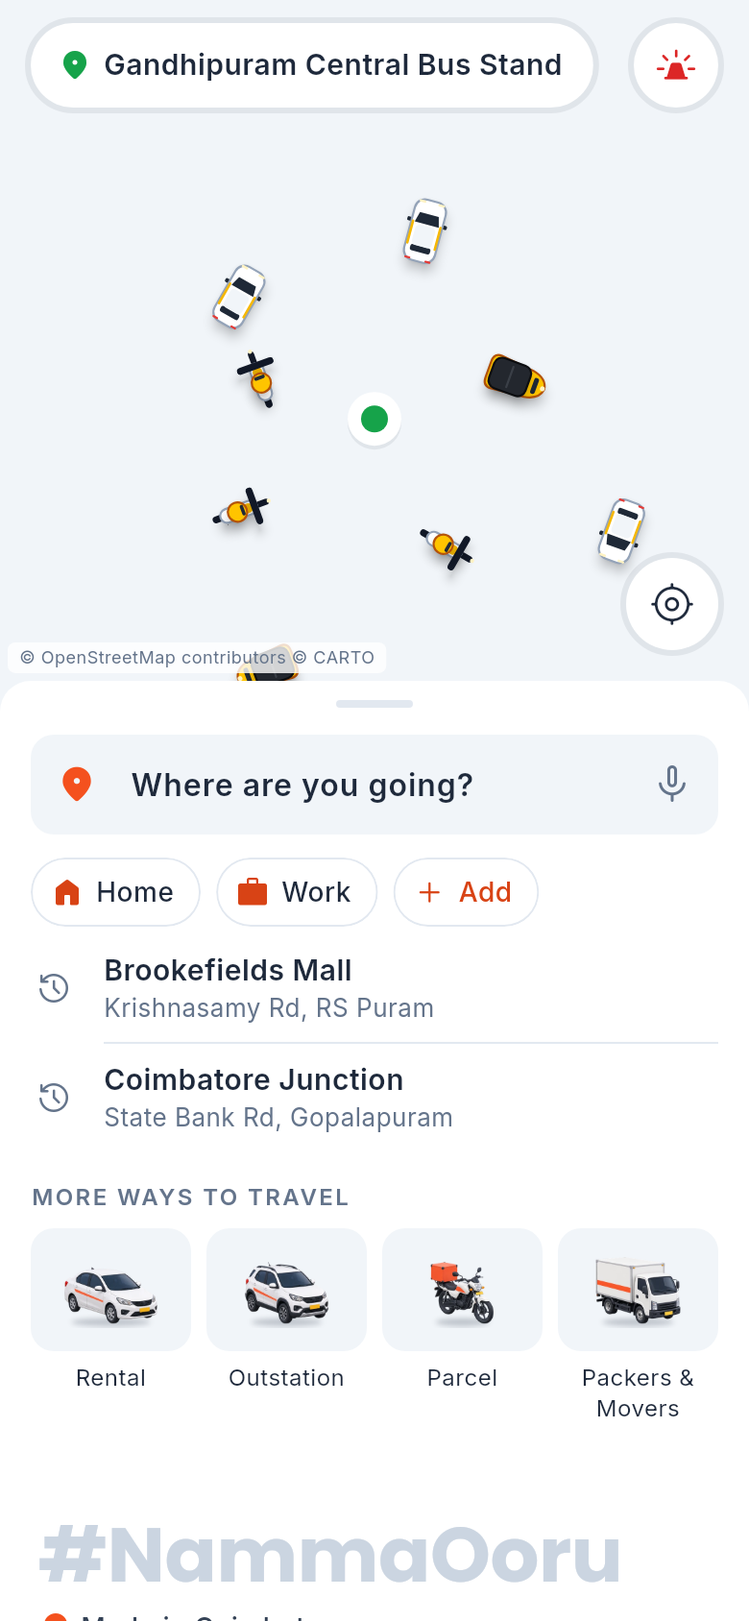
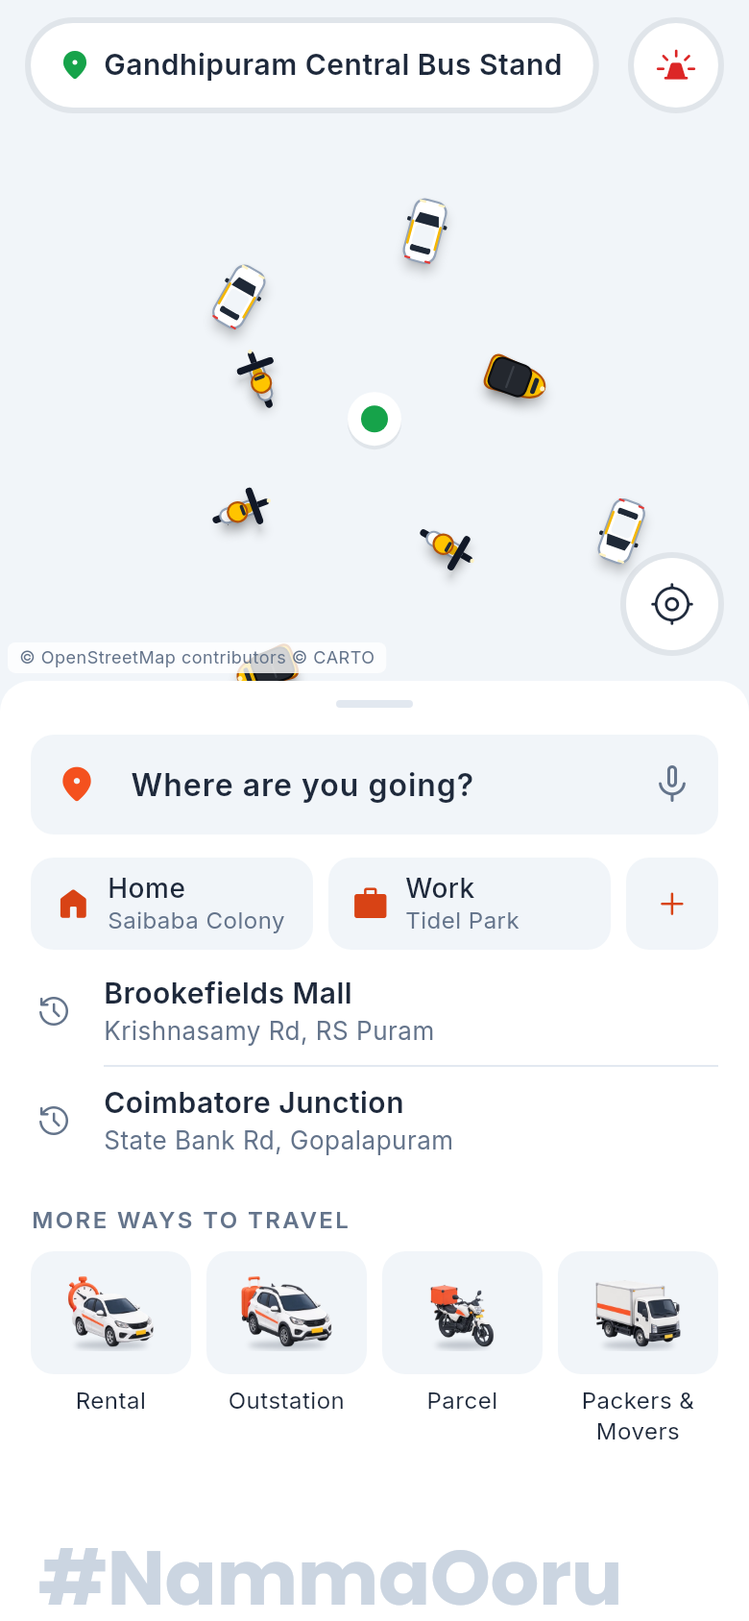
feat(passenger): car with stopwatch / suitcase on Rental and Outstation tiles
Home's "More ways to travel" Rental tile now shows a sedan with a coral
stopwatch and Outstation an SUV with a coral suitcase (Ola-style tiles),
instead of a plain sedan and SUV. The pictures come from a third ChatGPT
sheet (travel modes, one row) run through scripts/vehicle_icons/build.py,
so they share the vehicle miniatures' canvas, mirroring and shadow; the
existing vehicle WebPs are unchanged. Brief added to prompt.md.

diff --git a/apps/passenger/lib/features/ride/p07_home_screen.dart b/apps/passenger/lib/features/ride/p07_home_screen.dart
@@ -865,21 +865,36 @@ class _MoreWaysRow extends ConsumerWidget {
               child: _WayTile(
                 title: 'Rental',
                 hint: from == null ? 'By the hour' : 'By the hour, from ${formatInr(from)}',
-                kind: VehicleKind.sedan,
+                art: const _ModeArt('way_rental'),
                 onTap: onRental,
               ),
             ),
             const SizedBox(width: TtSpacing.s),
             Expanded(
-              child: _WayTile(title: 'Outstation', hint: 'One way or round trip', kind: VehicleKind.suv, onTap: onOutstation),
+              child: _WayTile(
+                title: 'Outstation',
+                hint: 'One way or round trip',
+                art: const _ModeArt('way_outstation'),
+                onTap: onOutstation,
+              ),
             ),
             const SizedBox(width: TtSpacing.s),
             Expanded(
-              child: _WayTile(title: 'Parcel', hint: 'Send goods across town', kind: VehicleKind.goodsBike, onTap: onParcel),
+              child: _WayTile(
+                title: 'Parcel',
+                hint: 'Send goods across town',
+                art: const VehicleArt(VehicleKind.goodsBike),
+                onTap: onParcel,
+              ),
             ),
             const SizedBox(width: TtSpacing.s),
             Expanded(
-              child: _WayTile(title: 'Packers & Movers', hint: 'House shifting', kind: VehicleKind.truck, onTap: onMovers),
+              child: _WayTile(
+                title: 'Packers & Movers',
+                hint: 'House shifting',
+                art: const VehicleArt(VehicleKind.truck),
+                onTap: onMovers,
+              ),
             ),
           ],
         ),
@@ -888,14 +903,32 @@ class _MoreWaysRow extends ConsumerWidget {
   }
 }
 
-/// A grey tile with the vehicle's miniature and the name under it.
+/// The Rental / Outstation tile picture: a car with a stopwatch or a suitcase, made like the vehicle miniatures
+/// (scripts/vehicle_icons/build.py) and sized like [VehicleArt].
+class _ModeArt extends StatelessWidget {
+  const _ModeArt(this.name);
+  final String name;
+
+  @override
+  Widget build(BuildContext context) => Image.asset(
+        'packages/tamiltaxi_ui/assets/vehicles/$name.webp',
+        width: 56,
+        height: 40,
+        fit: BoxFit.contain,
+        filterQuality: FilterQuality.medium,
+        // Tests and the first frame: keep the space, no broken-image box.
+        errorBuilder: (context, error, stack) => const SizedBox(width: 56, height: 40),
+      );
+}
+
+/// A grey tile with a picture ([art]) and the name under it.
 class _WayTile extends StatelessWidget {
-  const _WayTile({required this.title, required this.hint, required this.kind, required this.onTap});
+  const _WayTile({required this.title, required this.hint, required this.art, required this.onTap});
   final String title;
 
   /// What it is, for screen readers ("By the hour, from ₹249").
   final String hint;
-  final VehicleKind kind;
+  final Widget art;
   final VoidCallback onTap;
 
   @override
@@ -914,7 +947,7 @@ class _WayTile extends StatelessWidget {
               height: 64,
               alignment: Alignment.center,
               decoration: const BoxDecoration(color: TtColors.inputBg, borderRadius: TtRadii.cardRadius),
-              child: VehicleArt(kind),
+              child: art,
             ),
             const SizedBox(height: 6),
             Text(

diff --git a/scripts/vehicle_icons/build.py b/scripts/vehicle_icons/build.py
@@ -1,4 +1,4 @@
-"""Builds the apps' vehicle miniatures from two ChatGPT sprite sheets in docs/design/vechile/.
+"""Builds the apps' vehicle miniatures from three ChatGPT sprite sheets in docs/design/vechile/.
 
     python3 scripts/vehicle_icons/build.py            # writes packages/tamiltaxi_ui/assets/vehicles/<kind>.webp
     python3 scripts/vehicle_icons/build.py --preview  # also build/vehicle_icons/preview.png (light + dark rows)
@@ -6,7 +6,8 @@
 Pink Taxi (rides for women riders with women drivers) uses `<kind>_pink.webp`: the same vehicles with the coral
 accent turned pink (only coral-orange hues move, so the yellow plates and white bodies stay).
 
-The sheets are transparent 1536 x 1024 PNGs, two rows of vehicles, made with the ChatGPT image model from the brief
+The sheets are transparent 1536 x 1024 PNGs, two rows of vehicles (the travel-modes sheet: one row, a car with a
+suitcase for Outstation and with a stopwatch for Rental, on the home tiles), made with the ChatGPT image model from the brief
 in prompt.md (soft 3D, front three-quarter view, white with one coral accent, no logos or text). The folder is kept
 local (git-ignored) like the earlier renders. ChatGPT draws the fronts pointing left; every app in the market shows
 them pointing right, so each vehicle is mirrored (the set has no text, so that is safe).
@@ -28,8 +29,11 @@ OUT = os.path.join(ROOT, 'packages', 'tamiltaxi_ui', 'assets', 'vehicles')
 SHEETS = {
     'Tamil Taxi passenger vehicles (ChatGPT).png': ['bike', 'scooty', 'auto', 'mini', 'sedan', 'suv'],
     'Tamil Taxi goods vehicles (ChatGPT).png': ['goods_bike', 'three_wheeler', 'mini_truck', 'pickup', 'truck'],
+    'Tamil Taxi travel modes (ChatGPT).png': ['way_outstation', 'way_rental'],
 }
 ROWS = 2
+# Sheets drawn as a single row.
+ONE_ROW = {'Tamil Taxi travel modes (ChatGPT).png'}
 
 # Pink Taxi copies of the vehicles a rider can book.
 PINK = ['bike', 'scooty', 'auto', 'auto_priority', 'mini', 'sedan', 'suv']
@@ -40,16 +44,16 @@ CW, CH, BASE = 336, 240, 220  # canvas and the line the wheels stand on, px
 FIT = {
     'bike': (264, 188), 'scooty': (240, 188), 'auto': (244, 204), 'mini': (300, 180), 'sedan': (324, 176),
     'suv': (320, 192), 'goods_bike': (268, 192), 'three_wheeler': (284, 204), 'mini_truck': (312, 196),
-    'pickup': (324, 188), 'truck': (324, 208),
+    'pickup': (324, 188), 'truck': (324, 208), 'way_outstation': (324, 220), 'way_rental': (324, 220),
 }
 
 
-def vehicles_in(sheet):
+def vehicles_in(sheet, rows=ROWS):
     """The vehicles of a sheet as trimmed RGBA images, row by row, split at empty columns."""
     alpha = sheet.getchannel('A').point(lambda a: 255 if a > 24 else 0)
-    band_h = sheet.height // ROWS
+    band_h = sheet.height // rows
     found = []
-    for r in range(ROWS):
+    for r in range(rows):
         band = alpha.crop((0, r * band_h, sheet.width, (r + 1) * band_h))
         filled = [band.crop((x, 0, x + 1, band_h)).getbbox() is not None for x in range(sheet.width)]
         x = 0
@@ -121,7 +125,7 @@ def main():
     built = {}
     for file, names in SHEETS.items():
         sheet = Image.open(os.path.join(SRC, file)).convert('RGBA')
-        found = vehicles_in(sheet)
+        found = vehicles_in(sheet, 1 if file in ONE_ROW else ROWS)
         if len(found) != len(names):
             sys.exit(f'{file}: found {len(found)} vehicles, expected {len(names)}')
         for name, v in zip(names, found):

diff --git a/docs/tech-docs/using.tech.md b/docs/tech-docs/using.tech.md
@@ -3,7 +3,7 @@
 Single technical reference for the Tamil Taxi monorepo. Keep it current: update this file whenever the stack, services,
 environment variables, commands or infrastructure change.
 
-Last updated: 10 Oct 2026 (each ride request goes to `offerFanOut` drivers at once, 3 by default, like Rapido: the first to accept gets it and the others' cards close; 1 = one driver at a time as before, see "Dispatch" step 5; staging API and admin deployed at `21ed3a6`, see 9b; earlier, 9 Oct: the parcel sender sees the delivery OTP on PP-09 too, not only PP-08, and its button sends the OTP with the tracking to the receiver; D-22a offers "Call the sender" when the receiver doesn't have the code, see "Delivery OTP" in 7b; earlier, 8 Oct: one welcome screen in each app, like Ola's: a picture on a soft coral panel, a headline and "Continue with phone number"; no carousel; driver D-02 has no separate Log in, the OTP step tells new and registered drivers apart; ChatGPT 3D pictures of a Tamil auto driver and a rider with our vehicles (`TtWelcomeView`), see "Welcome screen" under the rider intro; earlier, 6 Oct: live cars glide on rider maps: the driver's car along the road between GPS fixes (`VehicleGlide`, see 7a), nearby cars between refreshes (hourly marker `id` from `GET /drivers/nearby`), and the rider's trip reads carry `driverLocation` so the car shows at once after a restart, see 6; one ride OTP per rider, Rapido style, changed by admins when overheard: `User.rideOtp`, `POST /admin/users/:id/ride-otp`, see "One ride OTP per rider" in 6; system-design notes started: [system-design-notes.md](system-design-notes.md) compares our real-time design with Uber's and keeps the optimization backlog; Contribute page removed: no Account › Contribute in either app, no Settings › Contribute in the admin, `GET /app-config` has no `contribute` block, see 6a; locate-me on Home and P-09 moves at once to where the phone was last seen, follows the fresh GPS fix with a spinner (`MapCircleButton.busy`) and says when the location can't be found; P-09's used to go back to where the pin started; new vehicle miniatures for every vehicle: soft 3D, white with a coral accent, pointing right, built by `scripts/vehicle_icons/build.py` from ChatGPT sheets, see "Vehicle pictures"; slimmer ride lists: 64 dp rows, only the chosen one outlined, "For me" chip in the P-10 header, fare details from its ⓘ, see "Ride and goods lists"; lighter Home: one-line pickup pill, quiet SOS button, pills for saved places, 56 dp place rows, four More ways tiles, see 6g; Pink Taxi strip on P-10 for women riders (pink vehicles when on), 60 dp ride rows, see "Ride and goods lists"; Book Any on P-10 (Auto, Mini, Sedan or SUV, the fare of the one that comes), see "Book Any on P-10"; lighter Parcel home PP-01 (grey route card, 3-column vehicle tiles, one Packers & Movers row), see 6h; Home sheet snaps to down / middle / up like Rapido's, see "Home sheet stops"; staging API deployed at `c893959`, see 9b; "Received on UPI" is stored on the trip, `POST /trips/:id/payment`, see the driver trip
+Last updated: 13 Oct 2026 (rider Home: the Rental and Outstation tiles show a car with a coral stopwatch / suitcase, like Ola's tiles, built with the vehicle miniatures, see "Vehicle pictures"; earlier, 10 Oct: each ride request goes to `offerFanOut` drivers at once, 3 by default, like Rapido: the first to accept gets it and the others' cards close; 1 = one driver at a time as before, see "Dispatch" step 5; staging API and admin deployed at `21ed3a6`, see 9b; earlier, 9 Oct: the parcel sender sees the delivery OTP on PP-09 too, not only PP-08, and its button sends the OTP with the tracking to the receiver; D-22a offers "Call the sender" when the receiver doesn't have the code, see "Delivery OTP" in 7b; earlier, 8 Oct: one welcome screen in each app, like Ola's: a picture on a soft coral panel, a headline and "Continue with phone number"; no carousel; driver D-02 has no separate Log in, the OTP step tells new and registered drivers apart; ChatGPT 3D pictures of a Tamil auto driver and a rider with our vehicles (`TtWelcomeView`), see "Welcome screen" under the rider intro; earlier, 6 Oct: live cars glide on rider maps: the driver's car along the road between GPS fixes (`VehicleGlide`, see 7a), nearby cars between refreshes (hourly marker `id` from `GET /drivers/nearby`), and the rider's trip reads carry `driverLocation` so the car shows at once after a restart, see 6; one ride OTP per rider, Rapido style, changed by admins when overheard: `User.rideOtp`, `POST /admin/users/:id/ride-otp`, see "One ride OTP per rider" in 6; system-design notes started: [system-design-notes.md](system-design-notes.md) compares our real-time design with Uber's and keeps the optimization backlog; Contribute page removed: no Account › Contribute in either app, no Settings › Contribute in the admin, `GET /app-config` has no `contribute` block, see 6a; locate-me on Home and P-09 moves at once to where the phone was last seen, follows the fresh GPS fix with a spinner (`MapCircleButton.busy`) and says when the location can't be found; P-09's used to go back to where the pin started; new vehicle miniatures for every vehicle: soft 3D, white with a coral accent, pointing right, built by `scripts/vehicle_icons/build.py` from ChatGPT sheets, see "Vehicle pictures"; slimmer ride lists: 64 dp rows, only the chosen one outlined, "For me" chip in the P-10 header, fare details from its ⓘ, see "Ride and goods lists"; lighter Home: one-line pickup pill, quiet SOS button, pills for saved places, 56 dp place rows, four More ways tiles, see 6g; Pink Taxi strip on P-10 for women riders (pink vehicles when on), 60 dp ride rows, see "Ride and goods lists"; Book Any on P-10 (Auto, Mini, Sedan or SUV, the fare of the one that comes), see "Book Any on P-10"; lighter Parcel home PP-01 (grey route card, 3-column vehicle tiles, one Packers & Movers row), see 6h; Home sheet snaps to down / middle / up like Rapido's, see "Home sheet stops"; staging API deployed at `c893959`, see 9b; "Received on UPI" is stored on the trip, `POST /trips/:id/payment`, see the driver trip
 endpoints in 6; flow audit fixes in the API: a deleted account's old tokens stay rejected without Redis, see
 the `DELETE /me` note in the 3 Oct audit section; drivers can book in the passenger app and are never offered their
 own trip; a scheduled trip waits while the rider has one under way, see 6g. Earlier, 3 Oct: driver app: no Refer a driver and no Delete account: drivers raise a "Delete my account" ticket and their records are kept 6 months for police enquiries, see the `DELETE /me` note in 2; the Design gallery row shows only with `--dart-define=TT_DESIGN_GALLERY=true`; number plates: white for bikes and scooters, yellow T-board for every other vehicle (`NumberPlate.vehicle`); avatar photos are round inside their ring (were square, covering it); Help & support: topic tiles in even rows (an odd last one takes the row), tickets shown by a short reference (`formatRef`, "#TOQDMWR9"); rider PP-03: the form is a movable sheet over the map, "Set on map" in the first drop search, "I'm receiving it myself" shows a Receiver card, see 6h; Parcel on Auto (`AUTO_PARCEL`, up to 100 kg inside the auto), driver Services with pauses and a Rate card, goods shown in kg only, see 6f and 7c8; rider parcels in 5–6 taps like Rapido: start from the drop, Switch, details optional, see 6h; Home lists the last 3 places under the search; the "0% commission / no subscription" message now appears only where it matters, see 6a; D-05 vehicle cards show passengers or load; completed the interrupted 2 Oct Claude audit; see the completion handoff below; passenger home footer: a new picture (`assets/illustrations/home_footer.png`, 256-colour PNG, 195 KB) replaces the generated SVG; `scripts/footer_art/` and flutter_svg removed; rider Home: the top pill shows the greeting over the pickup area ("Good morning, Priya" / "Mahaganapathi Nagar, Vellalore"; tap to move the pickup on P-09, green pickup pin there), no initials avatar, during a trip the greeting alone; maps: Android took the initial camera before `mapPadding`, so a route fitted above a sheet sat behind it (PP-06, P-10, the trip screens): the Google map places its camera again once it is created, fits keep the whole drop pin in view, P-22 fits its route, see 7a; rider parcels: PP-02 / PP-03 open on a map with a fixed pin (move the map to fine-tune the point), the drop is searched first, compact location rows, see 6h; "House shifting" is called **Packers & Movers** in every app (code keeps `shifting`); Activity: one card per trip under day headers (Today, Yesterday, 30 Sep); live mode uses the real date (`TtClock.useRealDate`); pickup and truck pictures, cut out of their painted checkerboard by `scripts/vehicle_icons/checker_cutout.py`; house shifting goes only to movers who switched it on with enough helpers, see 6h; prices per city: admin › City › Rentals & more sets rentals, outstation, goods to another town and house shifting prices, `CityModePricing`, `GET /fares/rates`, see 6i; driver app: house shifting request cards, D-21c move details and items, D-22c price lines; rider app: house shifting PH-01 … PH-05 with typed items, goods to another town on PP-01 / PP-06, "I'm receiving it myself" and Save as on PP-03, load beds on PP-06, see 6h; API: goods to another town (one way, by the km) and house shifting (`POST /fares/shifting-quote`, `Trip.shifting`, scheduled parcels), admin House shifting card, see 6h; driver app: rental / outstation request cards with the pickup time of trips booked ahead, voice line, rental clock on D-18c, fare lines on D-19c, see 6g; rider app: Rental (P-34) and Outstation (P-35 / P-35b) from Home, booking for later with P-36 "You're booked" and Upcoming on Home and Activity, mode fares mirrored in `ride_modes.dart` against the shared `ride_mode_cases.json`, see 6g; screen transitions: one slide-and-fade for every page in both apps, see 7e; API: cab rentals (hourly packages), outstation one way / round trip and trips booked for later (`SCHEDULED`), see 6g; nearby vehicles on rider maps (`GET /drivers/nearby`, no ids, ~55 m grid) and coloured top-down markers; ride tiers Scooty, Auto Priority, Sedan, SUV beside Bike, Auto and Mini (`CAB`), see 6f; driver sign-up: OTP → one D-07 Registration page (vehicle card + checklist, review and rejections on the same page) until approval, D-10 / S-09 removed, sign-up step bar aligned left; no built-in city: place search, area names, map starts and app messages come from the `City` rows (`serviceCitiesProvider`, `CityDefaults`, admin `cityView`); maps re-fit to `fitPoints` whenever they or the visible area change; rider splash intro: P-01 plays a 2 s animation from the native splash frame: the icon's kolam ring draws itself, the x's lane dashes glide, the tagline rises (`KolamRing`, `TtAppName.laneShift`, `SimTimings.intro`); passenger home: the Ride sheet ends in line art of Tamil Nadu under "#NammaOoru · Made in Coimbatore" (`HomeFooter`, SVG via flutter_svg, drawn by `scripts/footer_art/build.py`), `MapBottomSheet.footer` slot; maps: hexes only, no circles anywhere: mock demand map and S-08 service area as H3-sized hexes (`hex_grid.dart`), S-01 search area as hex cells, hex "location lost" marker (the search radar pulse stays round), `MapZone` circles removed from `TtMap`; app screen audit fixes: chips / labels cut off on P-08, P-10, P-25, D-03a, D-14, D-14b, attributions under the status bar, PP-07 pickup under the sheet, rider privacy text and chat header no longer claim masked numbers, old "r" mark on the driver UPI QR and `RD-` trip codes, D-26 document count; `docs/design` is now screenshots of the apps, refreshed with `scripts/export_design.py`; admin dashboard: Needs attention strip + Today / People & places sections; admin global search: Ctrl+K palette over `GET /admin/search`; admin driver + account pages: More menu (edit, push, take offline, block), Driver profile / Account tabs, Notes + History cards, Remind on Approvals; admin people API: notes, activity history, direct push, driver detail edits, take offline; admin list views: status tabs with counts, sort, more filters, 20 / 50 / 100 rows, phone search ignoring spaces and +91, lean list queries + indexes; sidebar regrouped into collections (Overview, Drivers, Riders, Trips, Money, Platform, System; collapsible), Settings section chips + find; driver approval switch `driverAutoApprove` + Drivers › Approvals queue with bulk approve, hold / reject reasons pushed to the driver; 30 Sep: public website `apps/web`: static Next.js export with home, privacy policy, terms and account deletion pages for Google Play; pink Butterfly band on driver request cards for women-preferred and women-only trips; back fixed on the driver OTP screens; driver request cards swipe right to accept / left to decline, rail icons for best ₹/km, closest pickup, parcel, Butterfly, Verified; Go To / Stay In bar on the driver request screen; driver Home: Go To / Stay In row and sheet with saved areas, Parcels too switch, mixed ride/parcel request stacks; rider adds extra (+₹10/20/30) to a search nobody took, shown to drivers as "₹50 + ₹20"; parcel on bike: bike drivers also get goods-bike parcels unless they switch it off; Stay In and saved areas in driver booking preferences; kolam app icons + matching native/Flutter splash, overlay notification icon fix; 29 Sep: renamed Rido → Tamil Taxi: packages, app IDs `com.tamiltaxi.*`, `Tt*` widgets, `TT_*` defines, database `tamiltaxi`; new logo in `TtWordmark`; open-source repo: AGPL-3.0, contributor docs, CI, COST_AND_SCALING.md; DEV_OTP_CODE for dev-mode sign-in; bike taxi and auto test drivers; stacked requests shown as a comparison list with a ring rail; stacked driver requests: up to 3 open at once, chips to switch, accepting one releases the rest; driver booking preferences: go home, farthest pickup, trip length, filtered in dispatch; driver requests: swipe to accept and read aloud in English / Tamil; D-07 per-document cards + Help button; nearest high-demand area on driver Home with area names and directions; test drivers seeder for cab, goods bike, truck, mini truck and pickup; driver ETAs for P-10 and dispatch in one Route Matrix call; place search restricted to the service area with each suggestion's distance from the pickup; "Near KG Hospital" pickup landmarks from Google address descriptors, stored as `Trip.pickupLandmark` for the driver; traffic-aware travel time on P-10 / PP-06 (`travelMin`, fare unchanged); fare routes use the shortest of Google's alternatives; routes snap pickup / drop to a road a vehicle can stop on (vehicleStopover), fare screen reloads when a stop changes; "Did you reach safely?" after night rides; route deviation + night checks on the quoted route; stop detection during rides with an "Is everything OK?" check; server SOS + admin SOS page; live trip share links + public /track page; dispatch ranks drivers by 7-day offer record and idle time; driver cancellation-rate nudge and temporary pause; cancellation fee, off by default; cancellation fault verdict from signals; waiting charge after the free minutes at the pickup; fare sanity flags at completion + admin "Mark reviewed" and GPS path map; trip GPS breadcrumbs and actual distance; driver state cached in Redis for the GPS path; rich driver GPS fixes + offline buffer with batch upload; trip timeout jobs: not moving, no-show wait, stuck trips; driver cancel finds another driver; OTP out of driver step responses; structured cancellations with codes; durable Redis job runner for dispatch timers; trip race / OTP / rating / GPS-trust fixes; no default peak markup, surge before the minimum fare, notifier never crashes the API)
@@ -1107,12 +1107,14 @@ tier per city (City › Fares).
   (`ParcelVehicleArt`), D-02, D-04, D-05, D-07, D-11 and the design board. Since 5 Oct 2026 every vehicle is a soft
   3D miniature in one style (white body, one coral accent, charcoal instead of black, no logos or text, front
   three-quarter view pointing right like the other ride apps), made with the ChatGPT image model from the brief in
-  `scripts/vehicle_icons/prompt.md` as two transparent sprite sheets kept local in `docs/design/vechile/`.
+  `scripts/vehicle_icons/prompt.md` as transparent sprite sheets kept local in `docs/design/vechile/`.
   `scripts/vehicle_icons/build.py` finds each vehicle by the empty columns around it, mirrors it, scales it into a box
   per class (two-wheelers smaller than cars) on one 336 × 240 px canvas with one wheel baseline and the same soft
   shadow, and writes WebPs (~15–20 KB each; sharp up to the 96 dp driver cards). Auto Priority is the auto with a
   navy bolt badge; goods bike has its own picture (delivery box). Pink Taxi copies (`<kind>_pink.webp`, the coral
   accent turned pink, autos with pink canopies) exist for the seven ride tiers: `VehicleArt(kind, pink: true)`.
+  Since 13 Oct 2026 a third sheet (travel modes) gives the Home Rental and Outstation tiles their pictures:
+  `way_rental.webp` (sedan with a stopwatch) and `way_outstation.webp` (SUV with a suitcase), same canvas and shadow.
 - **Ride and goods lists (P-10, PP-06, P-34 / P-35):** `VehicleOptionCard` is a 60 dp row like Rapido's and Uber's:
   56 × 40 dp miniature, name 15 sp (`listTitle`), "3 min away · Drop 9:24 PM" 13 sp grey (`listMeta`), fare 16 sp
   tabular (`price`); no box of its own, only the selected row has a white fill and a 1.5 dp outline (`accent`: coral,
@@ -1179,8 +1181,8 @@ tier per city (City › Fares).
 **In the rider app** (`packages/tamiltaxi_data/lib/src/ride_modes.dart` mirrors `ride-modes.ts`; both test the shared
 `packages/tamiltaxi_data/test/fixtures/ride_mode_cases.json`, so the apps' mock quotes match the API's):
 
-- Home (P-07) has a "More ways to travel" row of four tiles with the vehicle miniatures: **Rental** (P-34),
-  **Outstation** (P-35), **Parcel** (PP-01) and **Packers & Movers** (PH-01). Upcoming bookings show on
+- Home (P-07) has a "More ways to travel" row of four tiles with the vehicle miniatures: **Rental** (P-34, a sedan
+  with a stopwatch), **Outstation** (P-35, an SUV with a suitcase), **Parcel** (PP-01) and **Packers & Movers** (PH-01). Upcoming bookings show on
   Home and at the top of Activity (P-21, "UPCOMING", cancel for free); scheduled trips never count as the active ride.
 - Home layout since 5 Oct 2026 (lighter, like Rapido / Uber): a one-line pickup pill (44 dp, as wide as its text;
   the greeting only during a trip) and a quiet white SOS map button (`SosButton(quiet: true)`; the red SOS stays on

diff --git a/scripts/vehicle_icons/prompt.md b/scripts/vehicle_icons/prompt.md
@@ -1,7 +1,7 @@
 # Vehicle miniatures: ChatGPT brief
 
-The vehicle pictures in `packages/tamiltaxi_ui/assets/vehicles/` come from two sprite sheets made with the ChatGPT
-image model (5 Oct 2026). To add a vehicle, generate a sheet with the same brief, save it in `docs/design/vechile/`,
+The vehicle pictures in `packages/tamiltaxi_ui/assets/vehicles/` come from three sprite sheets made with the ChatGPT
+image model (5 Oct 2026; travel modes 13 Oct 2026). To add a vehicle, generate a sheet with the same brief, save it in `docs/design/vechile/`,
 add it to `SHEETS` in `build.py` and run the script. ChatGPT draws the fronts pointing left; `build.py` mirrors them
 so they point right like every other ride app.
 
@@ -31,6 +31,11 @@ so they point right like every other ride app.
    three-wheeler with an open flat cargo bed; small Indian mini truck (1-tonne light commercial vehicle) with an open
    cargo bed / pickup truck with an open bed; medium closed box truck with a white box body and a coral stripe;
    last cell empty.
+3. Travel modes (home "More ways to travel" tiles), 2 columns x 1 row, the passenger SUV and sedan attached as style
+   references: Outstation = the compact SUV with a coral hard-shell suitcase (white handle, charcoal wheels) standing
+   behind its rear; Rental = the compact sedan with a large round coral stopwatch (white face, tick marks only, one
+   charcoal hand) behind its rear. Props about 70% of the car's height and poking above the roof, the car is the
+   hero, each illustration filling about 75% of its half, a clear empty gap between the two.
 
 With the Codex CLI that ships in the ChatGPT desktop app: `codex exec --skip-git-repo-check -s read-only "<brief>"
 < /dev/null`; the images land in `~/.codex/generated_images/`.
